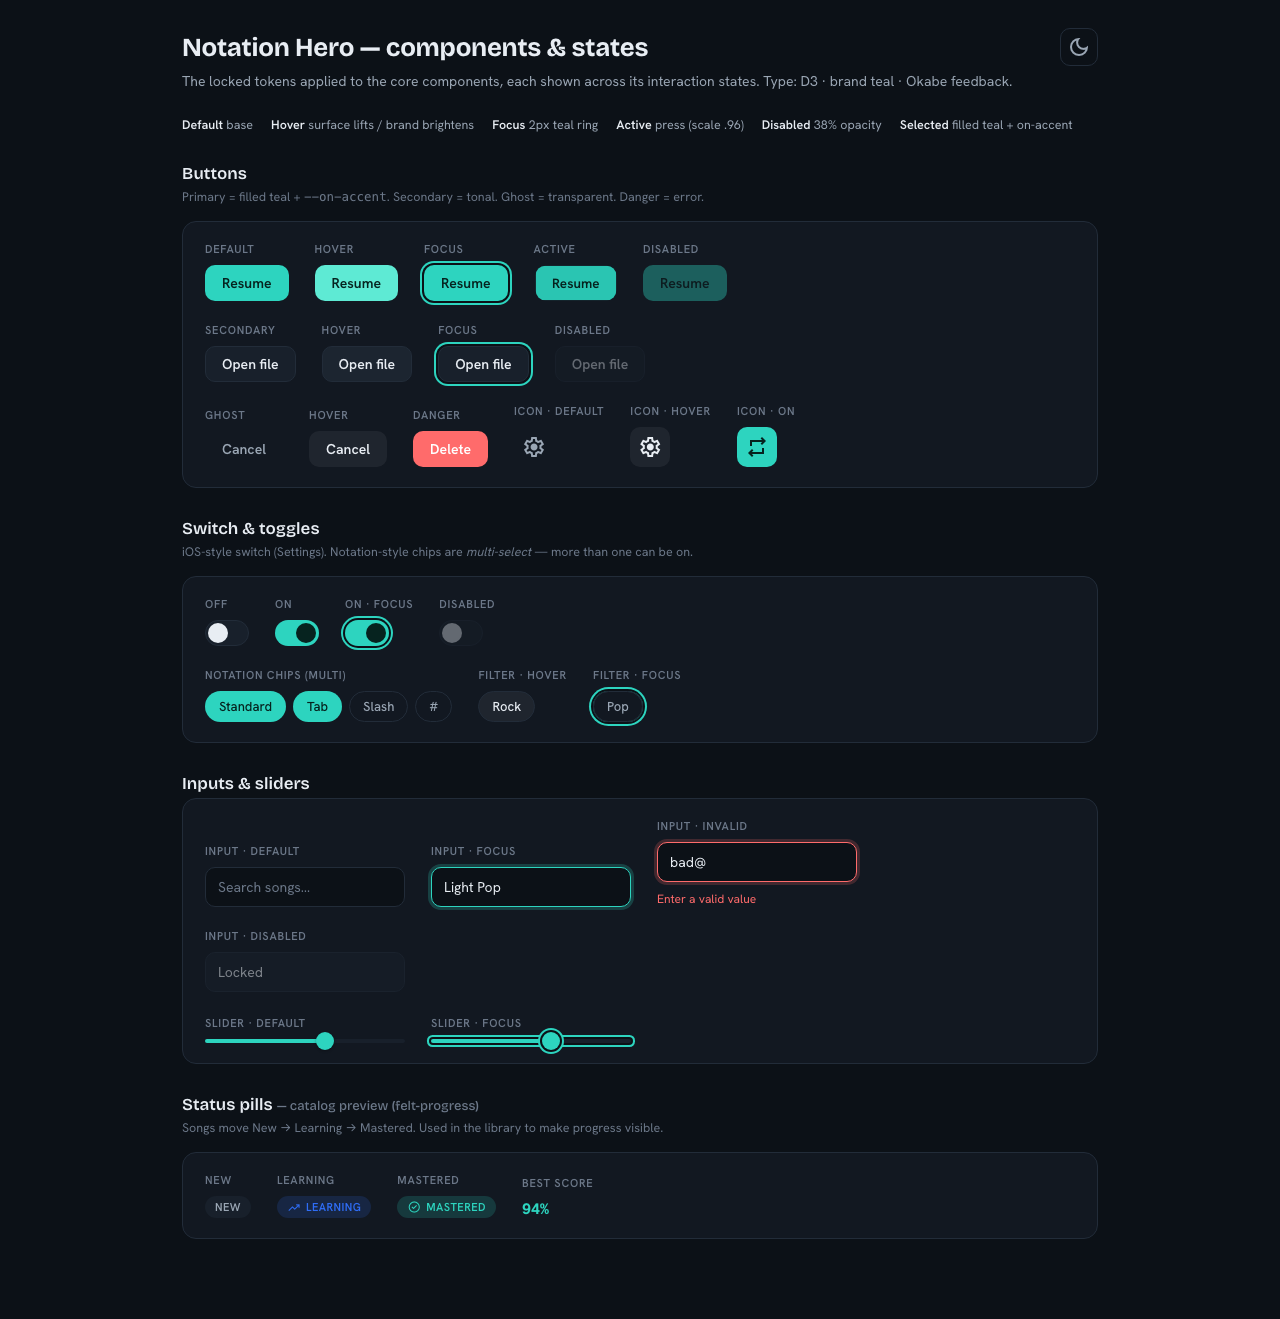
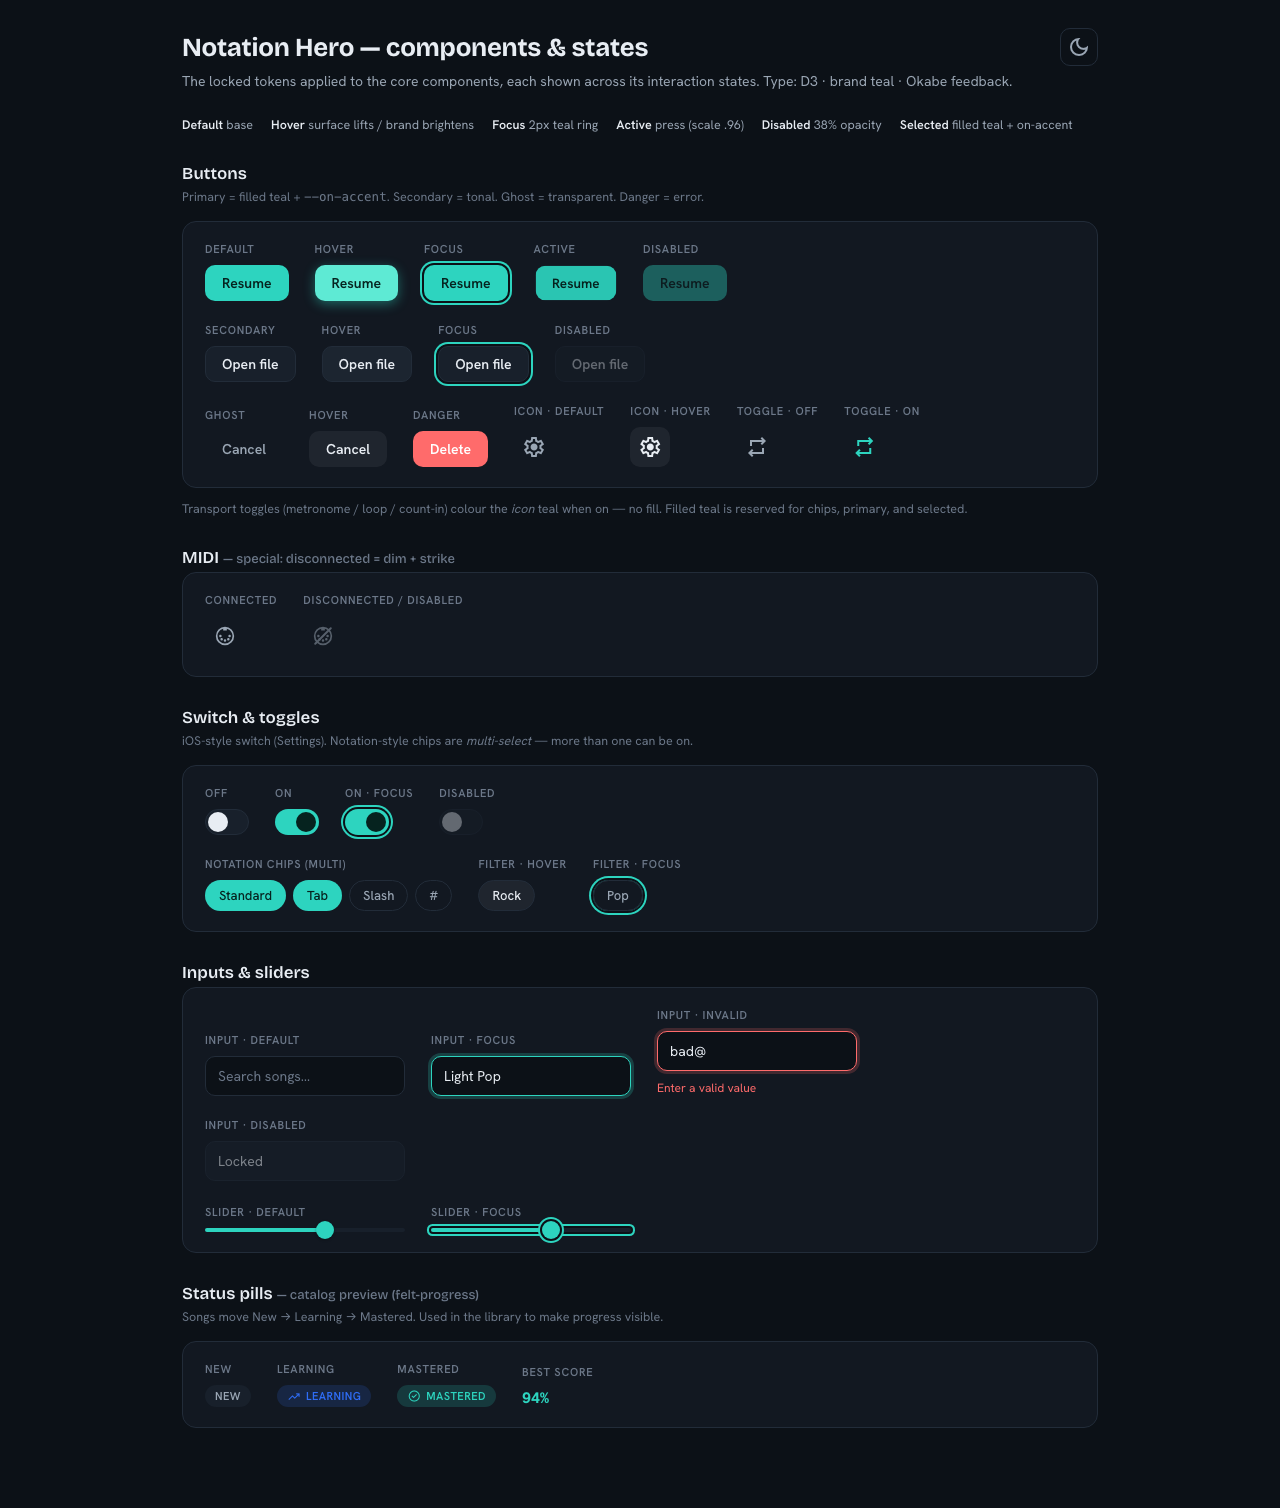
fix(design): refine component states (MIDI strike, toggle colour, hover glow)
Per review of the component gallery:
- MIDI: disconnected/disabled = dim + diagonal strike (a "no MIDI" indicator).
- Transport toggle icons colour the icon teal when on (no fill); filled teal
  stays for chips / primary / selected.
- Primary button hover adds a soft teal glow so it's visible on any monitor.
- Refreshes the component screenshots.

diff --git a/docs/mockups/design-system-components.html b/docs/mockups/design-system-components.html
@@ -53,7 +53,7 @@
   .btn-ghost { background:transparent; color:var(--muted); }
   .btn-danger { background:var(--danger); color:#fff; }
   /* explicit state renders */
-  .s-hover.btn-primary { background:var(--accenthi); }
+  .s-hover.btn-primary { background:var(--accenthi); box-shadow:0 3px 12px color-mix(in srgb, var(--accent) 42%, transparent); }
   .s-hover.btn-secondary { background:var(--elevate); }
   .s-hover.btn-ghost { background:var(--hover); color:var(--ink); }
   .s-focus { box-shadow:0 0 0 2px var(--bg), 0 0 0 4px var(--accent); }
@@ -65,8 +65,11 @@
     color:var(--muted); display:inline-flex; align-items:center; justify-content:center; cursor:pointer; }
   .ibtn.s-hover { background:var(--hover); color:var(--ink); }
   .ibtn.s-focus { box-shadow:0 0 0 2px var(--bg), 0 0 0 4px var(--accent); }
-  .ibtn.s-on { background:var(--accent); color:var(--onaccent); }
+  .ibtn.s-on { color:var(--accent); }
   .ibtn.s-disabled { opacity:.38; }
+  .ibtn.midi-off { opacity:.5; position:relative; }
+  .ibtn.midi-off::after { content:''; position:absolute; left:50%; top:50%; width:24px; height:2px; border-radius:2px;
+    background:var(--muted); transform:translate(-50%,-50%) rotate(-45deg); }
 
   /* Switch */
   .sw { width:44px; height:26px; border-radius:999px; background:var(--panel2); border:.5px solid var(--line);
@@ -151,7 +154,17 @@
       <div class="cell"><span class="lbl">Danger</span><button class="btn btn-danger">Delete</button></div>
       <div class="cell"><span class="lbl">Icon · default</span><button class="ibtn"><span class="material-symbols-outlined">settings</span></button></div>
       <div class="cell"><span class="lbl">Icon · hover</span><button class="ibtn s-hover"><span class="material-symbols-outlined">settings</span></button></div>
-      <div class="cell"><span class="lbl">Icon · on</span><button class="ibtn s-on"><span class="material-symbols-outlined">repeat</span></button></div>
+      <div class="cell"><span class="lbl">Toggle · off</span><button class="ibtn"><span class="material-symbols-outlined">repeat</span></button></div>
+      <div class="cell"><span class="lbl">Toggle · on</span><button class="ibtn s-on"><span class="material-symbols-outlined">repeat</span></button></div>
+    </div>
+  </div>
+  <p class="note" style="margin-top:12px">Transport toggles (metronome / loop / count-in) colour the <em>icon</em> teal when on — no fill. Filled teal is reserved for chips, primary, and selected.</p>
+
+  <h2>MIDI <span style="color:var(--faint);font-weight:400;font-size:13px">— special: disconnected = dim + strike</span></h2>
+  <div class="panel">
+    <div class="row">
+      <div class="cell"><span class="lbl">Connected</span><button class="ibtn"><svg xmlns="http://www.w3.org/2000/svg" viewBox="0 0 24 24" style="width:22px;height:22px;fill:currentColor"><path d="M12,2A10,10 0 0,1 22,12A10,10 0 0,1 12,22A10,10 0 0,1 2,12A10,10 0 0,1 12,2M20.18,12C20.18,8.18 17.55,4.96 14,4.07V6H10V4.07C6.45,4.96 3.82,8.18 3.82,12A8.18,8.18 0 0,0 12,20.18A8.18,8.18 0 0,0 20.18,12M7,10.64A1.36,1.36 0 0,1 8.36,12A1.36,1.36 0 0,1 7,13.36C6.25,13.36 5.64,12.75 5.64,12C5.64,11.25 6.25,10.64 7,10.64M17,10.64A1.36,1.36 0 0,1 18.36,12A1.36,1.36 0 0,1 17,13.36A1.36,1.36 0 0,1 15.64,12A1.36,1.36 0 0,1 17,10.64M8.36,14.27A1.37,1.37 0 0,1 9.73,15.64C9.73,16.39 9.12,17 8.36,17A1.36,1.36 0 0,1 7,15.64C7,14.88 7.61,14.27 8.36,14.27M15.64,14.27C16.39,14.27 17,14.88 17,15.64A1.36,1.36 0 0,1 15.64,17C14.88,17 14.27,16.39 14.27,15.64A1.37,1.37 0 0,1 15.64,14.27M12,15.64A1.36,1.36 0 0,1 13.36,17A1.36,1.36 0 0,1 12,18.36A1.36,1.36 0 0,1 10.64,17A1.36,1.36 0 0,1 12,15.64Z"/></svg></button></div>
+      <div class="cell"><span class="lbl">Disconnected / disabled</span><button class="ibtn midi-off"><svg xmlns="http://www.w3.org/2000/svg" viewBox="0 0 24 24" style="width:22px;height:22px;fill:currentColor"><path d="M12,2A10,10 0 0,1 22,12A10,10 0 0,1 12,22A10,10 0 0,1 2,12A10,10 0 0,1 12,2M20.18,12C20.18,8.18 17.55,4.96 14,4.07V6H10V4.07C6.45,4.96 3.82,8.18 3.82,12A8.18,8.18 0 0,0 12,20.18A8.18,8.18 0 0,0 20.18,12M7,10.64A1.36,1.36 0 0,1 8.36,12A1.36,1.36 0 0,1 7,13.36C6.25,13.36 5.64,12.75 5.64,12C5.64,11.25 6.25,10.64 7,10.64M17,10.64A1.36,1.36 0 0,1 18.36,12A1.36,1.36 0 0,1 17,13.36A1.36,1.36 0 0,1 15.64,12A1.36,1.36 0 0,1 17,10.64M8.36,14.27A1.37,1.37 0 0,1 9.73,15.64C9.73,16.39 9.12,17 8.36,17A1.36,1.36 0 0,1 7,15.64C7,14.88 7.61,14.27 8.36,14.27M15.64,14.27C16.39,14.27 17,14.88 17,15.64A1.36,1.36 0 0,1 15.64,17C14.88,17 14.27,16.39 14.27,15.64A1.37,1.37 0 0,1 15.64,14.27M12,15.64A1.36,1.36 0 0,1 13.36,17A1.36,1.36 0 0,1 12,18.36A1.36,1.36 0 0,1 10.64,17A1.36,1.36 0 0,1 12,15.64Z"/></svg></button></div>
     </div>
   </div>
 
